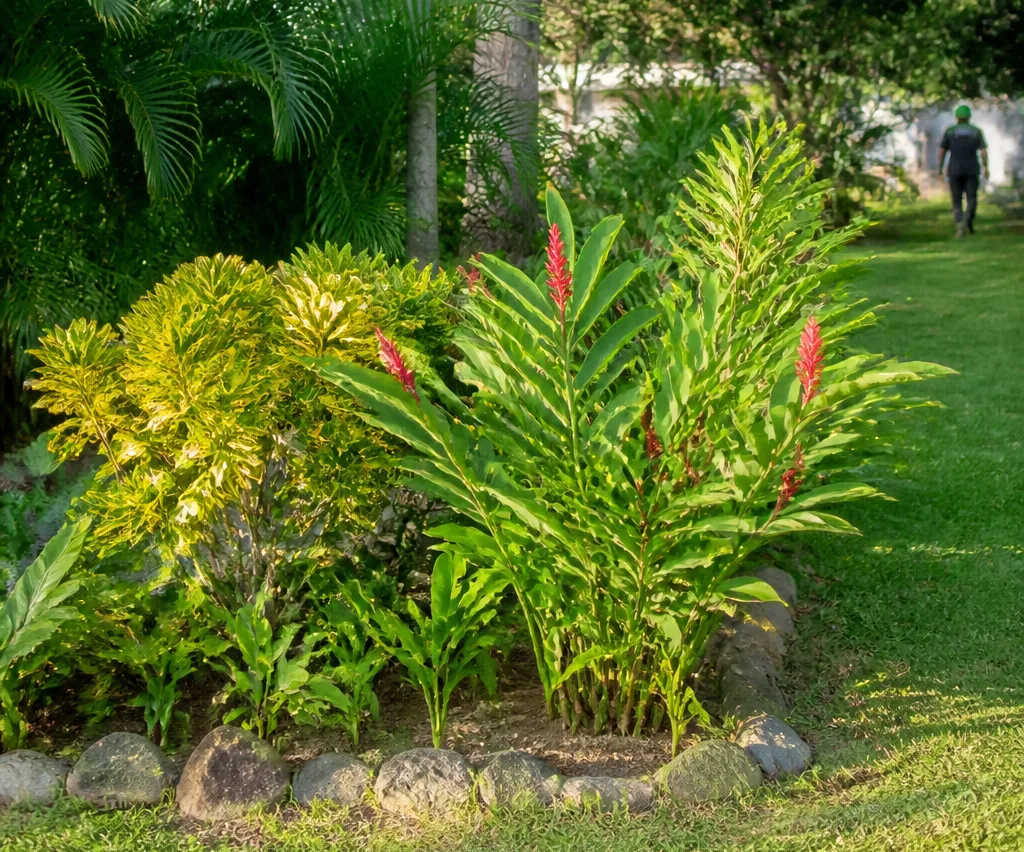
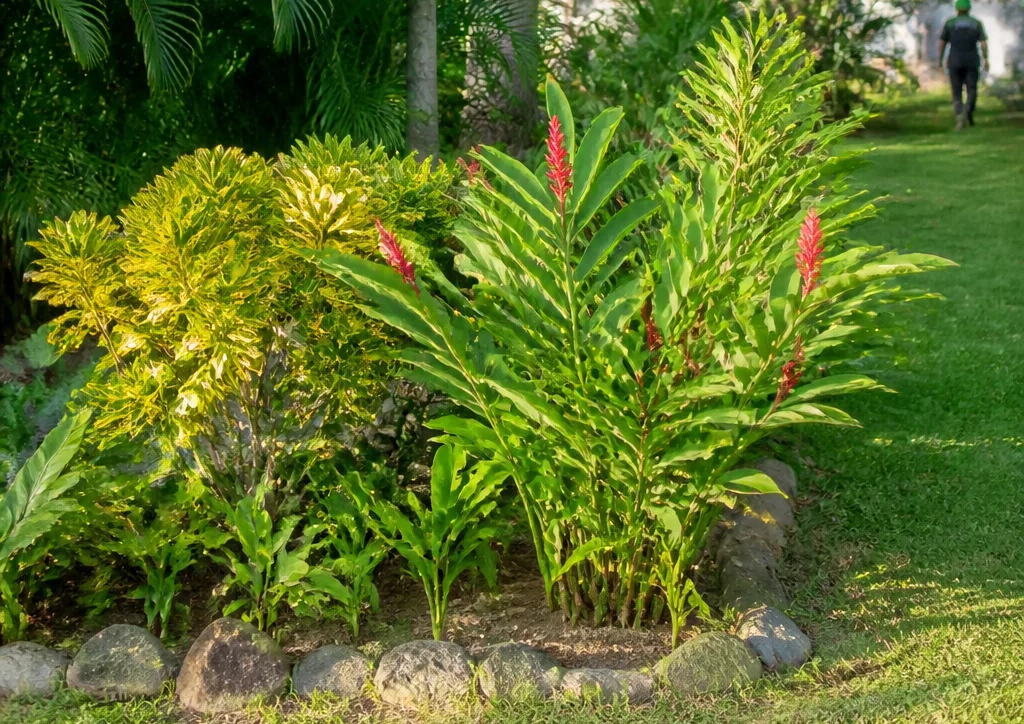
version inicial

diff --git a/app.py b/app.py
@@ -40,13 +40,21 @@ def load_image(file_name: str) -> Optional[Image.Image]:
     return None
 
 
-def render_image_or_placeholder(file_name: str, caption: str = "", use_column_width: bool = True):
+def render_image_or_placeholder(
+    file_name: str,
+    caption: str = "",
+    use_column_width: bool = True,
+    width: Optional[int] = None,
+):
     """
     Muestra una imagen si está disponible, o un contenedor de respaldo estilizado.
     """
     img = load_image(file_name)
     if img:
-        st.image(img, caption=caption if caption else None, use_container_width=use_column_width)
+        if width is not None:
+            st.image(img, caption=caption if caption else None, width=width)
+        else:
+            st.image(img, caption=caption if caption else None, use_container_width=use_column_width)
     else:
         st.markdown(
             f"""
@@ -204,15 +212,16 @@ CUSTOM_CSS = """
 
     /* Banner informativo */
     .gac-banner {
-        background: linear-gradient(90deg, #1B4332 0%, #2D6A4F 100%);
+        background: linear-gradient(90deg, #0F2B3C 0%, #1E4258 100%);
         color: #FFFFFF;
-        padding: 1rem 1.4rem;
+        padding: 1.1rem 1.5rem;
         border-radius: 12px;
         margin-top: 1.2rem;
         display: flex;
         align-items: center;
-        gap: 0.8rem;
-        box-shadow: 0 4px 12px rgba(27, 67, 50, 0.15);
+        gap: 0.9rem;
+        border-left: 4px solid #38BDF8;
+        box-shadow: 0 4px 14px rgba(15, 43, 60, 0.15);
     }
 
     /* Placeholder visual para imágenes faltantes */
@@ -553,7 +562,7 @@ def view_servicios():
                 <div class="gac-card">
                     <h3 style="color: #1B4332; margin-top: 0; font-weight: 700;">Gestión de Residuos Sólidos No Peligrosos</h3>
                     <p class="gac-text">
-                        Identificamos las corrientes de residuos, los volúmenes y los costos actuales de manejo. Con esa información definimos dónde conviene intervenir para organizar la separación según los materiales y el ritmo de trabajo de la empresa.
+                        Identificamos las corrientes de residuos, los volúmenes y los costos actuales de manejo. Con esa información definimos dónde intervenir para organizar la separación según los materiales y el ritmo de trabajo de la empresa.
                     </p>
                     <div style="background-color: #F3FAF6; border-left: 3px solid #2D6A4F; padding: 0.8rem 1rem; border-radius: 6px; margin-top: 0.8rem;">
                         <strong style="color: #1B4332; font-size: 0.9rem;">📌 Valor Agregado Incluido:</strong>
@@ -652,7 +661,7 @@ def view_como_trabajamos():
                 <div class="gac-step-num">01</div>
                 <div class="gac-step-title">Entendemos la operación</div>
                 <p class="gac-text">
-                    Conversamos sobre lo que la empresa genera, cómo se mueve dentro de sus instalaciones y cuánto cuesta gestionarlo hoy. El alcance se diseña según los tipos de residuos, los volúmenes y la operación específica de cada cliente; no se traslada el mismo esquema de una empresa a otra.
+                    Conversamos sobre lo que la empresa genera, cómo se mueve dentro de sus instalaciones y cuánto cuesta gestionarlo hoy. El alcance se diseña según los tipos de residuos, los volúmenes y la operación específica de cada cliente.
                 </p>
             </div>
             """,
@@ -706,10 +715,10 @@ def view_como_trabajamos():
     st.markdown(
         """
         <div class="gac-banner">
-            <div style="font-size: 1.8rem;">💡</div>
+            <div style="font-size: 2rem;">💡</div>
             <div>
-                <strong style="font-size: 1rem; letter-spacing: 0.02em;">Principio de Personalización GAC:</strong>
-                <div style="font-size: 0.9rem; opacity: 0.95; margin-top: 2px;">
+                <strong style="font-size: 1.02rem; letter-spacing: 0.02em; color: #F0F9FF;">Principio de Personalización GAC:</strong>
+                <div style="font-size: 0.92rem; color: #E0F2FE; margin-top: 3px; line-height: 1.45;">
                     Cada diagnóstico parte de datos reales de su operación, evitando recetas genéricas y asegurando viabilidad económica y ambiental.
                 </div>
             </div>
@@ -774,7 +783,24 @@ def view_contactenos():
             unsafe_allow_html=True,
         )
 
-        render_image_or_placeholder("contactanos.webp", caption="Atención personalizada para el sector productivo e industrial.")
+        # Imagen al 40% del ancho con texto descriptivo al lado
+        st.markdown("<div style='height: 0.5rem;'></div>", unsafe_allow_html=True)
+        col_img, col_desc = st.columns([0.4, 0.6], gap="medium", vertical_alignment="center")
+        with col_img:
+            render_image_or_placeholder(
+                "contactanos.webp",
+                caption="",
+                use_column_width=True,
+            )
+        with col_desc:
+            st.markdown(
+                """
+                <div style="font-size: 0.95rem; color: #475569; font-weight: 500; line-height: 1.5;">
+                    Atención personalizada para el sector productivo e industrial.
+                </div>
+                """,
+                unsafe_allow_html=True,
+            )
 
     with col_form:
         st.markdown(
